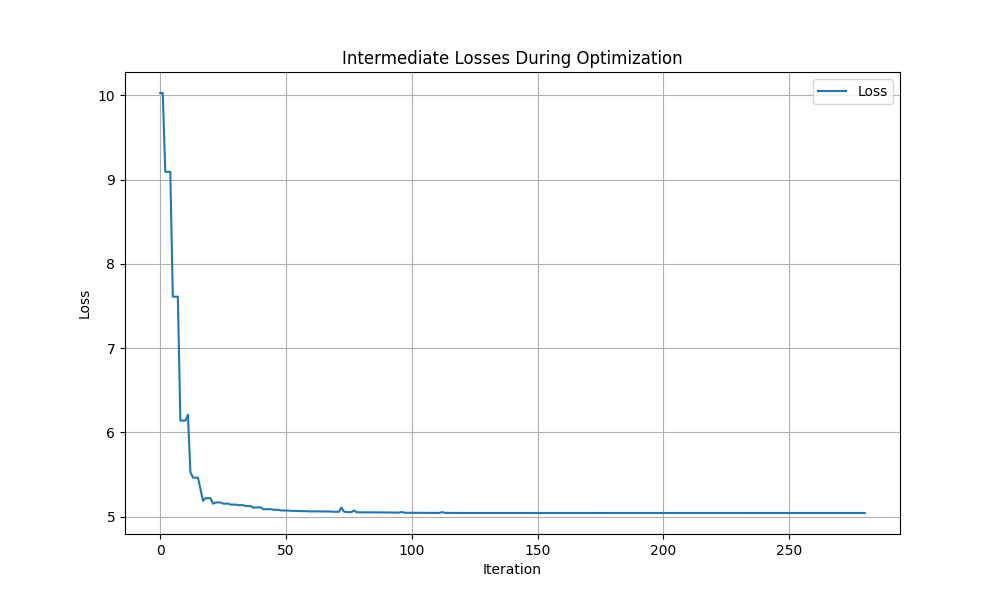
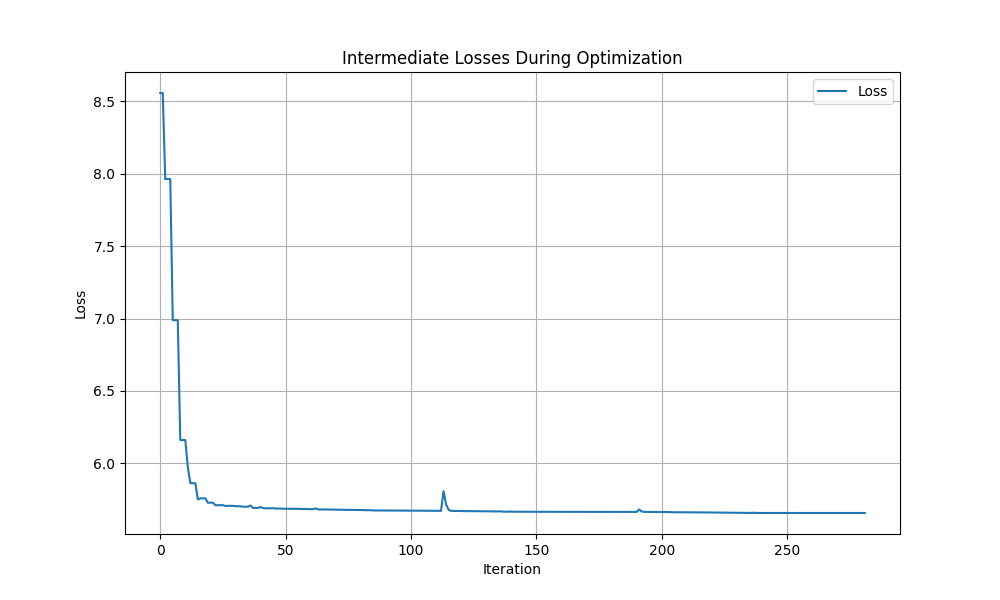
Fixed gif generation using pymanopt and geomloss distances

diff --git a/w_ed_ConjugateGradient.py b/w_ed_ConjugateGradient.py
@@ -1,50 +1,112 @@
 import torch
-import pymanopt
-from pymanopt.manifolds import SpecialOrthogonalGroup
-from pymanopt.optimizers import ConjugateGradient
 import numpy as np
-import matplotlib.pyplot as plt
+import pymanopt
 import imageio
+import matplotlib.pyplot as plt
 from mpl_toolkits.mplot3d import Axes3D
-from geomloss import SamplesLoss
+from pymanopt.manifolds import SpecialOrthogonalGroup
 
-def geom_energy_distance(x, y):
-    loss = SamplesLoss("energy")
-    return loss(x, y)
 
-def geom_sinkhorn_distance(x, y, epsilon=0.01, p=2):
-    loss = SamplesLoss("sinkhorn", blur=epsilon, p=p)
-    return loss(x, y)
 
-def geom_gaussian_distance(x, y, epsilon=0.01, p=2):
-    loss = SamplesLoss("gaussian", blur=epsilon, p=p)
-    return loss(x, y)
 
-def create_cost_and_derivates(manifold, A, B, distance_type, intermediate_rotations, intermediate_losses):
+
+def create_cost_and_derivates(manifold, A, B, alpha, beta, intermediate_rotations, intermediate_losses):
     A_ = torch.from_numpy(A).float()
     B_ = torch.from_numpy(B).float()
+    alpha_ = torch.from_numpy(alpha).float()
+    beta_ = torch.from_numpy(beta).float()
 
     @pymanopt.function.pytorch(manifold)
     def cost(X):
-        X_ = X.view(A_.shape[0], A_.shape[1], A_.shape[2]).float()
+        # Reshape X to have the correct shape for rotation matrices
+        X_ = X.view(A_.shape[0], A_.shape[1], A_.shape[1]).float()
         total_cost = 0.0
+
         for a, b, x in zip(A_, B_, X_):
-            a_rotated = a @ x
-            if distance_type == "energy":
-                total_cost += geom_energy_distance(a_rotated, b)
-            elif distance_type == "sinkhorn":
-                total_cost += geom_sinkhorn_distance(a_rotated, b)
-            elif distance_type == "gaussian":
-                total_cost += geom_gaussian_distance(a_rotated, b)
+            # Apply rotation matrix x to a
+            a_rotated = a @ x  # Rotate the points in a
+            total_cost += weighted_energy_distance(a_rotated, b, alpha_, beta_)
+        
         intermediate_rotations.append(X_.detach().clone().numpy())
         intermediate_losses.append(total_cost.item())
         return total_cost
 
     return cost, None
 
+
+
+
+
+def weighted_energy_distance(x, y, alpha, beta):
+    d_xy = pairwise_distances(x, y)
+    d_xx = pairwise_distances(x, x)
+    d_yy = pairwise_distances(y, y)
+
+    alpha_x = alpha[:, None]
+    beta_y = beta[None, :]
+
+    e_xy = torch.sum(alpha_x[:d_xy.size(0), :] * d_xy * beta_y[:, :d_xy.size(1)])
+    e_xx = torch.sum(alpha_x[:d_xx.size(0), :] * d_xx * alpha_x.t()[:, :d_xx.size(1)])
+    e_yy = torch.sum(beta_y[:d_yy.size(0), :] * d_yy * beta_y.t()[:, :d_yy.size(1)])
+
+    energy_dist = 2 * e_xy - e_xx - e_yy
+    return energy_dist
+
+
+
+
+
+def pairwise_distances(x, y):
+    n, m = x.size(0), y.size(0)
+    xx = torch.sum(x ** 2, dim=1, keepdim=True).expand(n, m)
+    yy = torch.sum(y ** 2, dim=1, keepdim=True).expand(m, n).t()
+    dist = xx + yy - 2 * torch.mm(x, y.t())
+    dist = torch.clamp(dist, min=1e-12)
+    return torch.sqrt(dist)
+
+
+
+
+
+def run():
+    num_points = 100
+    dim = 3
+
+    mean_A = np.zeros(dim)
+    mean_B = np.ones(dim)
+    cov_A = np.eye(dim) * 0.5
+    cov_B = np.eye(dim) * 0.5
+
+    A = np.array([generate_elliptical_cloud(mean_A, cov_A, dim).numpy() for _ in range(num_points)])
+    B = np.array([generate_elliptical_cloud(mean_B, cov_B, dim).numpy() for _ in range(num_points)])
+
+    alpha = np.random.dirichlet(np.ones(num_points), size=1)[0]
+    beta = np.random.dirichlet(np.ones(dim), size=1)[0]
+
+    intermediate_rotations = []
+    intermediate_losses = []
+
+    manifold = SpecialOrthogonalGroup(dim, k=num_points)
+    cost, euclidean_gradient = create_cost_and_derivates(manifold, A, B, alpha, beta, intermediate_rotations, intermediate_losses)
+    problem = pymanopt.Problem(manifold, cost, euclidean_gradient=euclidean_gradient)
+
+    optimizer = pymanopt.optimizers.ConjugateGradient(verbosity=2)
+    X = optimizer.run(problem).point
+
+    print(f"X shape: {X.shape}")
+    print(f"Number of intermediate rotations saved: {len(intermediate_rotations)}")
+    print(f"Number of intermediate losses saved: {len(intermediate_losses)}")
+
+    plot_losses(intermediate_losses, filename='loss_plot_ConjugateGradient.png')
+    create_gif(intermediate_rotations, A, B, filename='intermediate_rotations_ConjugateGradient.gif')
+
+
+
+
+
 def plot_losses(intermediate_losses, filename='loss_plot.png'):
     plt.figure(figsize=(10, 6))
-    plt.plot(intermediate_losses, label='Loss')
+    plt.plot(intermediate_losses, label='Weighted Energy Distance Loss')
     plt.xlabel('Iteration')
     plt.ylabel('Loss')
     plt.title('Intermediate Losses During Optimization')
@@ -52,6 +114,10 @@ def plot_losses(intermediate_losses, filename='loss_plot.png'):
     plt.grid(True)
     plt.savefig(filename)
     plt.show()
+
+
+
+
 
 def create_gif(intermediate_rotations, A, B, filename='intermediate_rotations_ConjugateGradient.gif'):
     images = []
@@ -78,46 +144,18 @@ def create_gif(intermediate_rotations, A, B, filename='intermediate_rotations_Co
 
     imageio.mimsave(filename, images, fps=5)
 
+
+
+
+
+
 def generate_elliptical_cloud(mean, cov, num_points):
     points = np.random.multivariate_normal(mean, cov, num_points)
     return torch.tensor(points, dtype=torch.float32)
 
-def run(distance_type, quiet=True):
-    num_points = 10
-    dim = 3
 
-    mean_A = np.zeros(dim)
-    mean_B = np.ones(dim)
-    cov_A = np.eye(dim) * 0.5
-    cov_B = np.eye(dim) * 0.5
 
-    A = np.array([generate_elliptical_cloud(mean_A, cov_A, dim).numpy() for _ in range(num_points)])
-    B = np.array([generate_elliptical_cloud(mean_B, cov_B, dim).numpy() for _ in range(num_points)])
 
-    print(f"A shape: {A.shape}, B shape: {B.shape}")
-
-    intermediate_rotations = []
-    intermediate_losses = []
-
-    manifold = SpecialOrthogonalGroup(dim, k=num_points)
-    cost, euclidean_gradient = create_cost_and_derivates(manifold, A, B, distance_type, intermediate_rotations, intermediate_losses)
-    problem = pymanopt.Problem(manifold, cost, euclidean_gradient=euclidean_gradient)
-
-    optimizer = ConjugateGradient(verbosity=2 * int(not quiet))
-    X = optimizer.run(problem).point
-
-    print(f"X shape: {X.shape}")
-
-    if not quiet:
-        print("Optimized Rotation Matrix:\n", X)
-
-    return X, intermediate_rotations, intermediate_losses, A, B
 
 if __name__ == "__main__":
-    for distance_type in ["energy", "sinkhorn", "gaussian"]:
-        print(f"Running optimization for {distance_type} distance")
-        X, intermediate_rotations, intermediate_losses, A, B = run(distance_type, quiet=False)
-        print(f"Number of intermediate rotations saved: {len(intermediate_rotations)}")
-        print(f"Number of intermediate losses saved: {len(intermediate_losses)}")
-        plot_losses(intermediate_losses, filename=f'loss_plot_{distance_type}.png')
-        create_gif(intermediate_rotations, A[0], B[0], filename=f'intermediate_rotations_{distance_type}.gif')
+    run()

diff --git a/geomloss_rotation.py b/geomloss_rotation.py
@@ -7,14 +7,7 @@ import matplotlib.pyplot as plt
 import imageio
 from mpl_toolkits.mplot3d import Axes3D
 from geomloss import SamplesLoss
-
-def pairwise_distances(x, y):
-    n, m = x.size(0), y.size(0)
-    xx = torch.sum(x ** 2, dim=1, keepdim=True).expand(n, m)
-    yy = torch.sum(y ** 2, dim=1, keepdim=True).expand(m, n).t()
-    dist = xx + yy - 2 * torch.mm(x, y.t())
-    dist = torch.clamp(dist, min=1e-12)
-    return torch.sqrt(dist)
+import os
 
 def geom_energy_distance(x, y):
     loss = SamplesLoss("energy")
@@ -25,7 +18,7 @@ def geom_sinkhorn_distance(x, y, epsilon=0.01, p=2):
     return loss(x, y)
 
 def geom_gaussian_distance(x, y, epsilon=0.01, p=2):
-    loss = SamplesLoss("gaussian", blur=epsilon, p=p)
+    loss = SamplesLoss("gaussian", blur=epsilon)
     return loss(x, y)
 
 def create_cost_and_derivates(manifold, A, B, distance_type, intermediate_rotations, intermediate_losses):
@@ -34,7 +27,7 @@ def create_cost_and_derivates(manifold, A, B, distance_type, intermediate_rotati
 
     @pymanopt.function.pytorch(manifold)
     def cost(X):
-        X_ = X.view(A_.shape[0], A_.shape[1], A_.shape[2]).float()
+        X_ = X.view(A_.shape[0], A_.shape[2], A_.shape[2]).float()
         total_cost = 0.0
         for a, b, x in zip(A_, B_, X_):
             a_rotated = a @ x
@@ -61,7 +54,50 @@ def plot_losses(intermediate_losses, filename='loss_plot.png'):
     plt.savefig(filename)
     plt.show()
 
-def create_gif(intermediate_rotations, A, B, filename='intermediate_rotations.gif'):
+"""def create_gif(intermediate_rotations, A, B, filename='intermediate_rotations.gif'):
+    temp_dir = "temp_gif_frames"
+    os.makedirs(temp_dir, exist_ok=True)
+    images = []
+
+    for i, X_ in enumerate(intermediate_rotations):
+        fig = plt.figure(figsize=(10, 7))
+        ax = fig.add_subplot(111, projection='3d')
+        X_ = torch.from_numpy(X_).float()
+        A_ = torch.from_numpy(A).float()
+        B_ = torch.from_numpy(B).float()
+        print(f"Frame {i}:")
+        for a, b, x in zip(A_, B_, X_):
+            print(f"a shape: {a.shape}, b shape: {b.shape}, x shape: {x.shape}")
+            if a.dim() == 2 and a.shape[1] == 3 and b.dim() == 2 and b.shape[1] == 3:
+                a_rotated = a @ x.T
+                if a_rotated.dim() == 2 and a_rotated.shape[1] == 3:
+                    ax.scatter(a_rotated[:, 0], a_rotated[:, 1], a_rotated[:, 2], c='r', marker='o')
+                    ax.scatter(b[:, 0], b[:, 1], b[:, 2], c='g', marker='^')
+        ax.set_xlim([-3, 3])
+        ax.set_ylim([-3, 3])
+        ax.set_zlim([-3, 3])
+        ax.set_title(f'Intermediate Rotations - Frame {i+1}')
+        plt.draw()
+
+        # Save the current frame
+        frame_filename = os.path.join(temp_dir, f"frame_{i:04d}.png")
+        fig.savefig(frame_filename)
+        plt.close(fig)
+        images.append(frame_filename)
+
+    # Create the GIF
+    with imageio.get_writer(filename, mode='I', fps=5) as writer:
+        for image_file in images:
+            image = imageio.imread(image_file)
+            writer.append_data(image)
+
+    # Cleanup temporary files
+    for image_file in images:
+        os.remove(image_file)
+    os.rmdir(temp_dir)"""
+    
+
+def create_gif(intermediate_rotations, A, B, filename='intermediate_rotations_ConjugateGradient.gif'):
     images = []
     fig = plt.figure(figsize=(10, 7))
     ax = fig.add_subplot(111, projection='3d')
@@ -71,24 +107,22 @@ def create_gif(intermediate_rotations, A, B, filename='intermediate_rotations.gi
         X_ = torch.from_numpy(X_).float()
         A_ = torch.from_numpy(A).float()
         B_ = torch.from_numpy(B).float()
-        print(f"Frame {i}:")
         for a, b, x in zip(A_, B_, X_):
-            print(f"a shape: {a.shape}, b shape: {b.shape}, x shape: {x.shape}")
-            if a.dim() == 2 and a.shape[1] == 3 and b.dim() == 2 and b.shape[1] == 3:
-                a_rotated = a @ x.t()
-                ax.scatter(a_rotated[:, 0], a_rotated[:, 1], a_rotated[:, 2], c='r', marker='o')
-                ax.scatter(b[:, 0], b[:, 1], b[:, 2], c='g', marker='^')
+            a_rotated = a @ x  # Apply the rotation
+            ax.scatter(a_rotated[:, 0], a_rotated[:, 1], a_rotated[:, 2], c='r', marker='o')
+            ax.scatter(b[:, 0], b[:, 1], b[:, 2], c='g', marker='^')
         ax.set_xlim([-3, 3])
         ax.set_ylim([-3, 3])
         ax.set_zlim([-3, 3])
         ax.set_title(f'Intermediate Rotations - Frame {i+1}')
         plt.draw()
-
         fig.canvas.draw()
-        image = np.frombuffer(fig.canvas.buffer_rgba(), dtype='uint8').reshape(fig.canvas.get_width_height()[::-1] + (4,))
+        image = np.frombuffer(fig.canvas.tostring_rgb(), dtype='uint8').reshape(fig.canvas.get_width_height()[::-1] + (3,))
         images.append(image)
 
     imageio.mimsave(filename, images, fps=5)
+    
+    
 
 def generate_elliptical_cloud(mean, cov, num_points):
     points = np.random.multivariate_normal(mean, cov, num_points)
@@ -103,8 +137,8 @@ def run(distance_type, quiet=True):
     cov_A = np.eye(dim) * 0.5
     cov_B = np.eye(dim) * 0.5
 
-    A = np.array([generate_elliptical_cloud(mean_A, cov_A, dim).numpy() for _ in range(num_points)])
-    B = np.array([generate_elliptical_cloud(mean_B, cov_B, dim).numpy() for _ in range(num_points)])
+    A = np.array([generate_elliptical_cloud(mean_A, cov_A, num_points).numpy() for _ in range(num_points)])
+    B = np.array([generate_elliptical_cloud(mean_B, cov_B, num_points).numpy() for _ in range(num_points)])
 
     print(f"A shape: {A.shape}, B shape: {B.shape}")
 
@@ -132,5 +166,5 @@ if __name__ == "__main__":
         print(f"Number of intermediate rotations saved: {len(intermediate_rotations)}")
         print(f"Number of intermediate losses saved: {len(intermediate_losses)}")
         plot_losses(intermediate_losses, filename=f'loss_plot_{distance_type}.png')
-        #create_gif(intermediate_rotations, A[0], B[0], filename=f'intermediate_rotations_{distance_type}.gif')
+        create_gif(intermediate_rotations, A, B, filename=f'intermediate_rotations_{distance_type}.gif')
 
